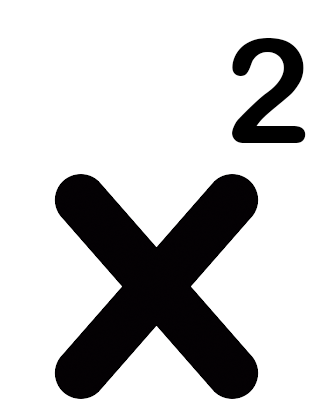
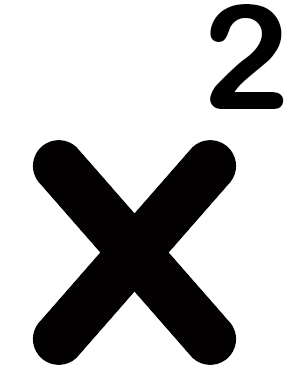
Plaatje replaced macht

Changed region(s): [[0.2746, 0.0, 0.9763, 1.0], [0.0915, 0.3558, 0.3966, 1.0]]

diff --git a/Website/Aftrekken.html b/Website/Aftrekken.html
@@ -32,10 +32,10 @@
                         <a href="Percentage.html">Percentage</a>
                         <a href="Restwaarde.html">Restwaarde</a>
                         <a href="Evenofoneven.html">Even OF Oneven</a>
-                        <a href="">1</a>
-                        <a href="">1</a>
-                        <a href="">1</a>
-                        <a href="">1</a>
+                        <a href="tafels.html">1</a>
+                        <a href="machten.html">1</a>
+                        <a href="breuken.html">1</a>
+                        <a href="kwadraten.html">1</a>
                         <a href="">1</a>
                         <a href="">1</a>
                         <a href="">1</a>
